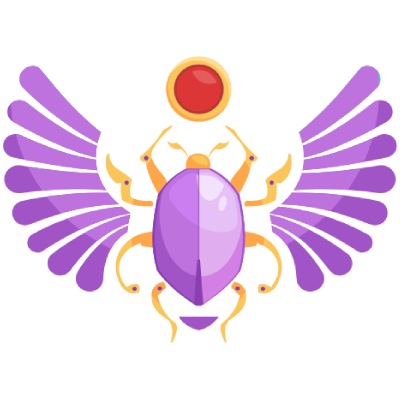
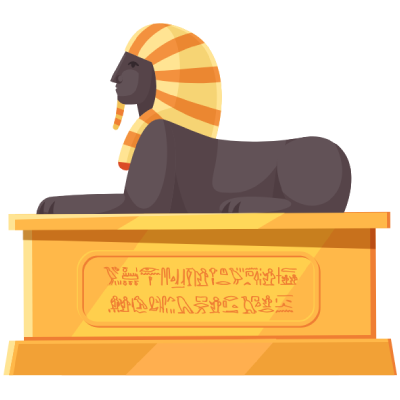
removed winged scarab symbol for color consistency

diff --git a/src/data/symbol-data.ts b/src/data/symbol-data.ts
@@ -9,12 +9,11 @@ export const symbols = [
   { id: "eyeOfHorus", textureKey: "06", weight: 5, isWild: false },
   { id: "crookAndFlail", textureKey: "07", weight: 5, isWild: false },
   { id: "horusFalcon", textureKey: "08", weight: 5, isWild: false },
-  { id: "wingedScarab", textureKey: "09", weight: 7, isWild: false },
+  { id: "sphinx", textureKey: "09", weight: 4, isWild: false },
   { id: "urn", textureKey: "10", weight: 1, isWild: false },
   { id: "vase", textureKey: "11", weight: 1, isWild: false },
   { id: "funeraryJars", textureKey: "12", weight: 2, isWild: false },
   { id: "shabti", textureKey: "13", weight: 2, isWild: false },
   { id: "sarcophagi", textureKey: "14", weight: 3, isWild: false },
   { id: "thutankhamonPillar", textureKey: "15", weight: 4, isWild: false },
-  { id: "sphinx", textureKey: "16", weight: 4, isWild: false },
 ] as Symbol[];